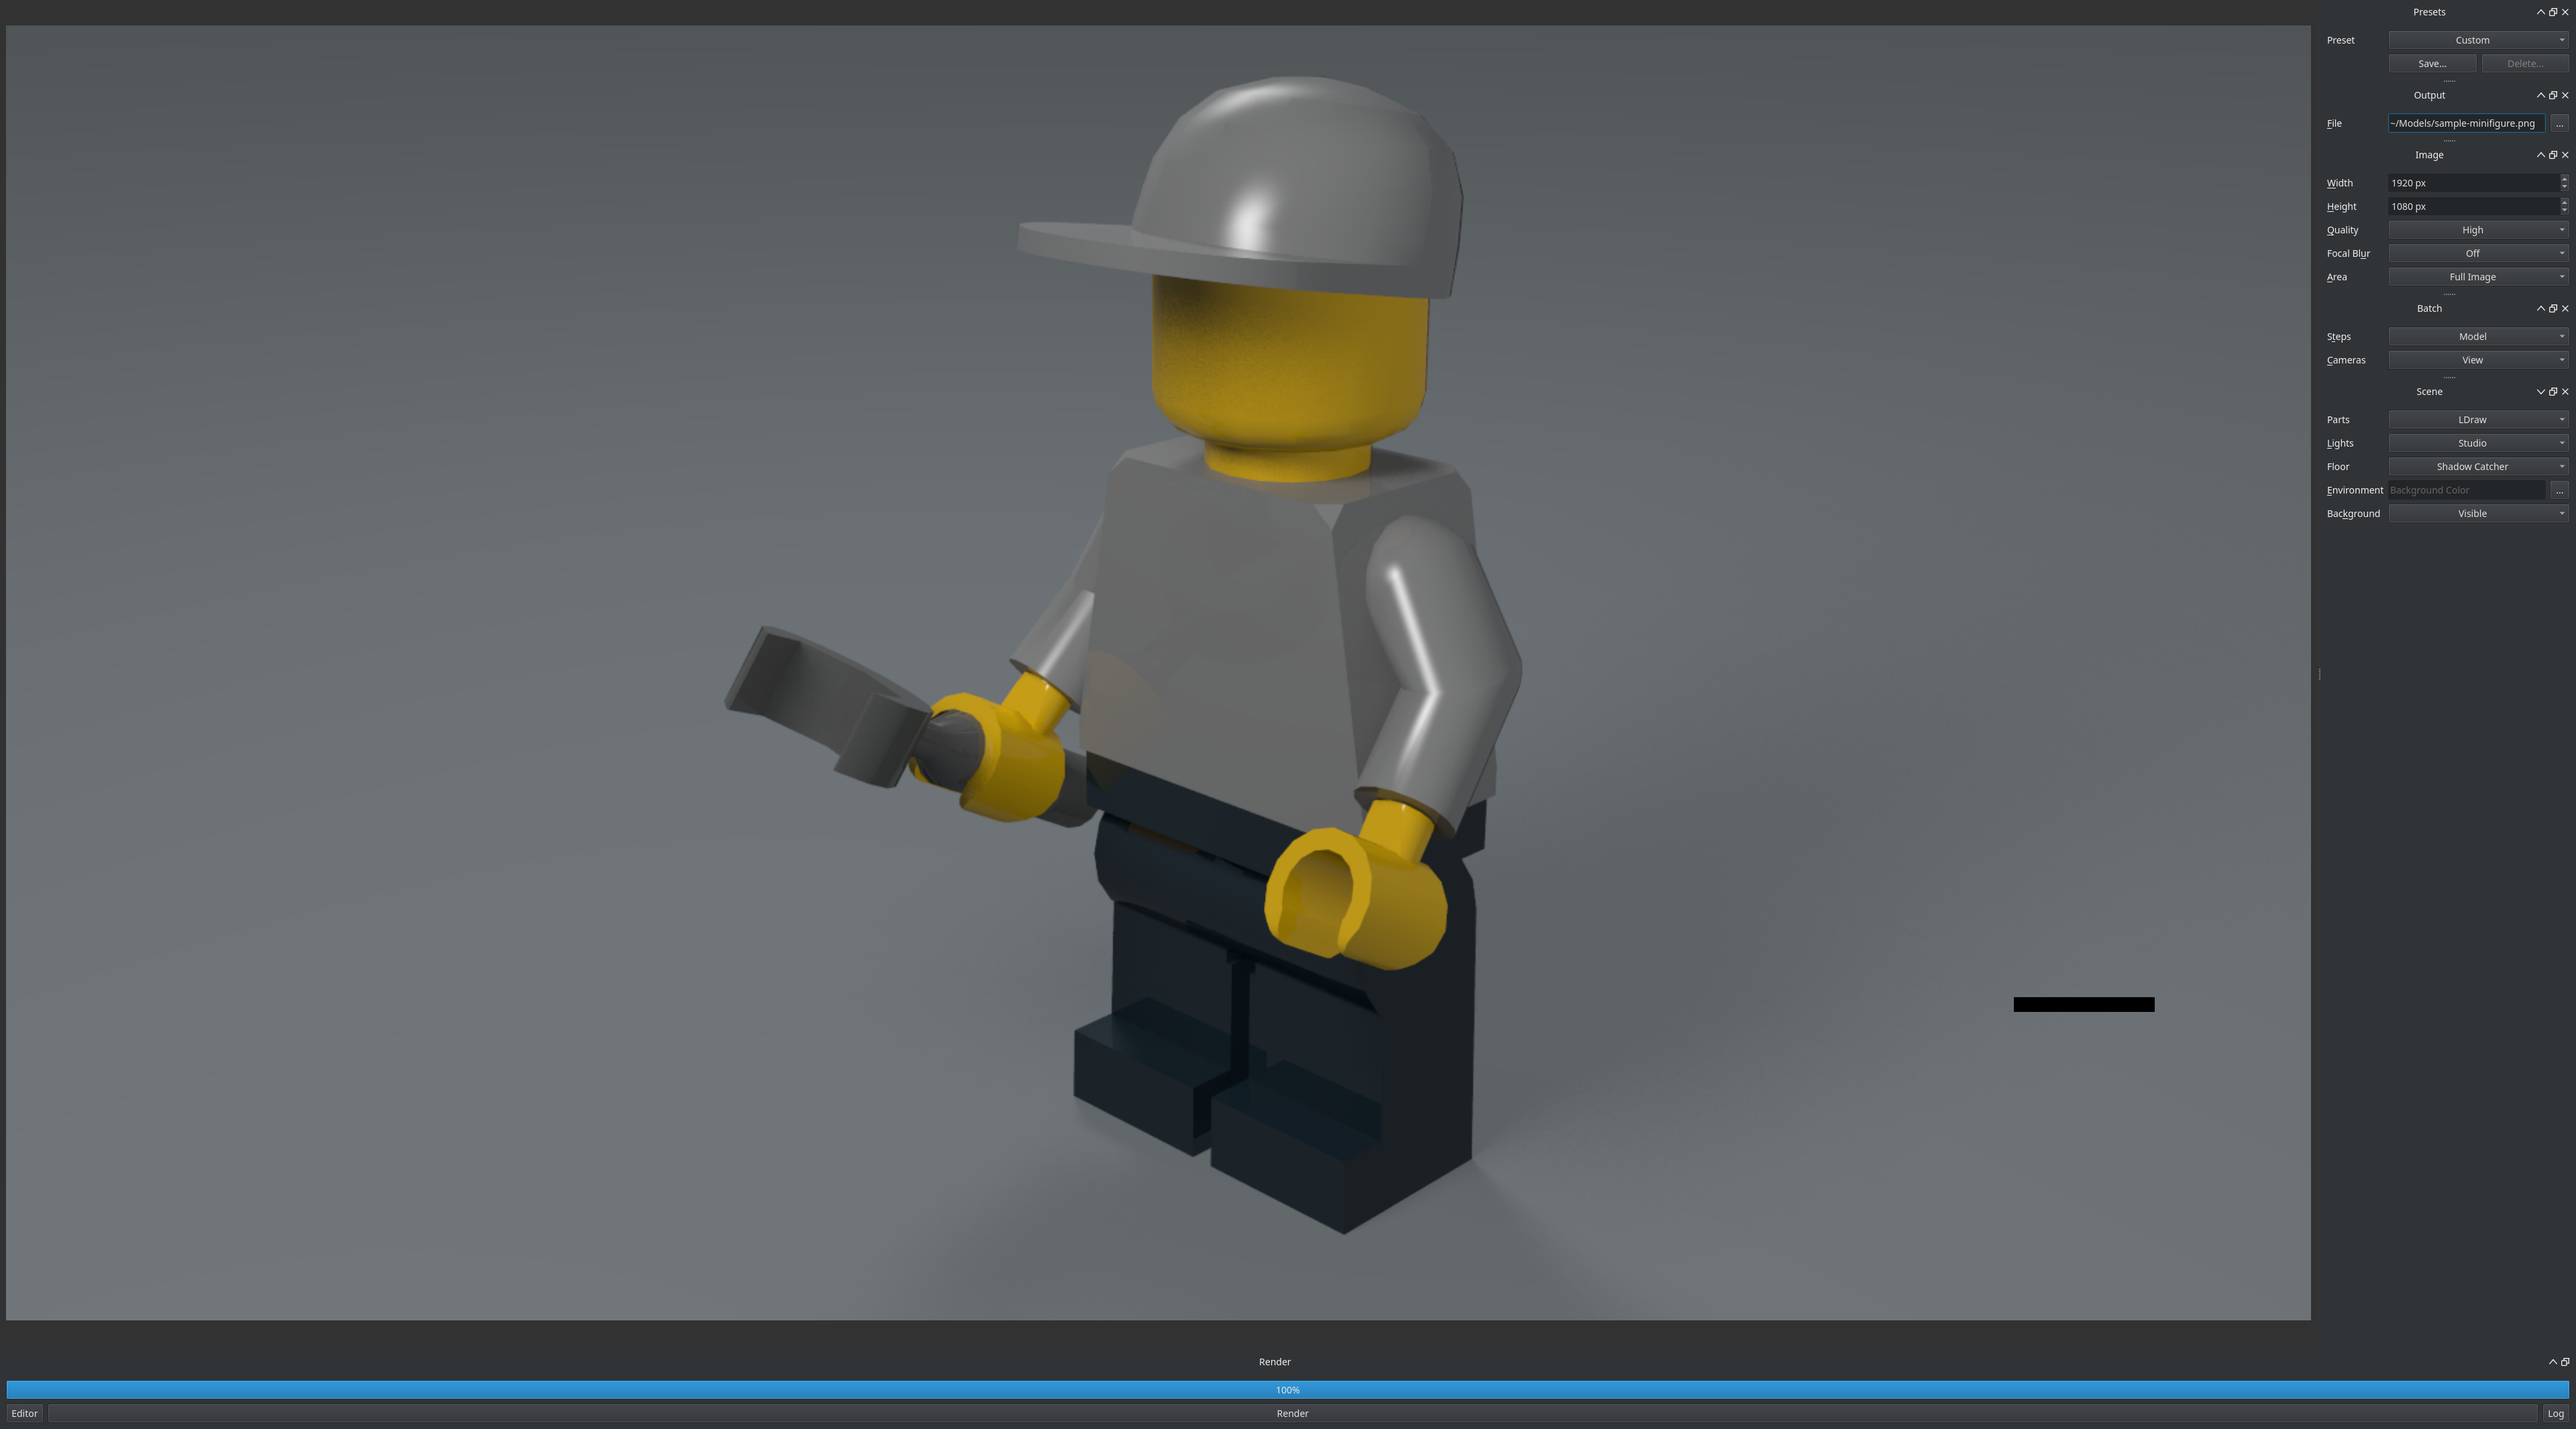
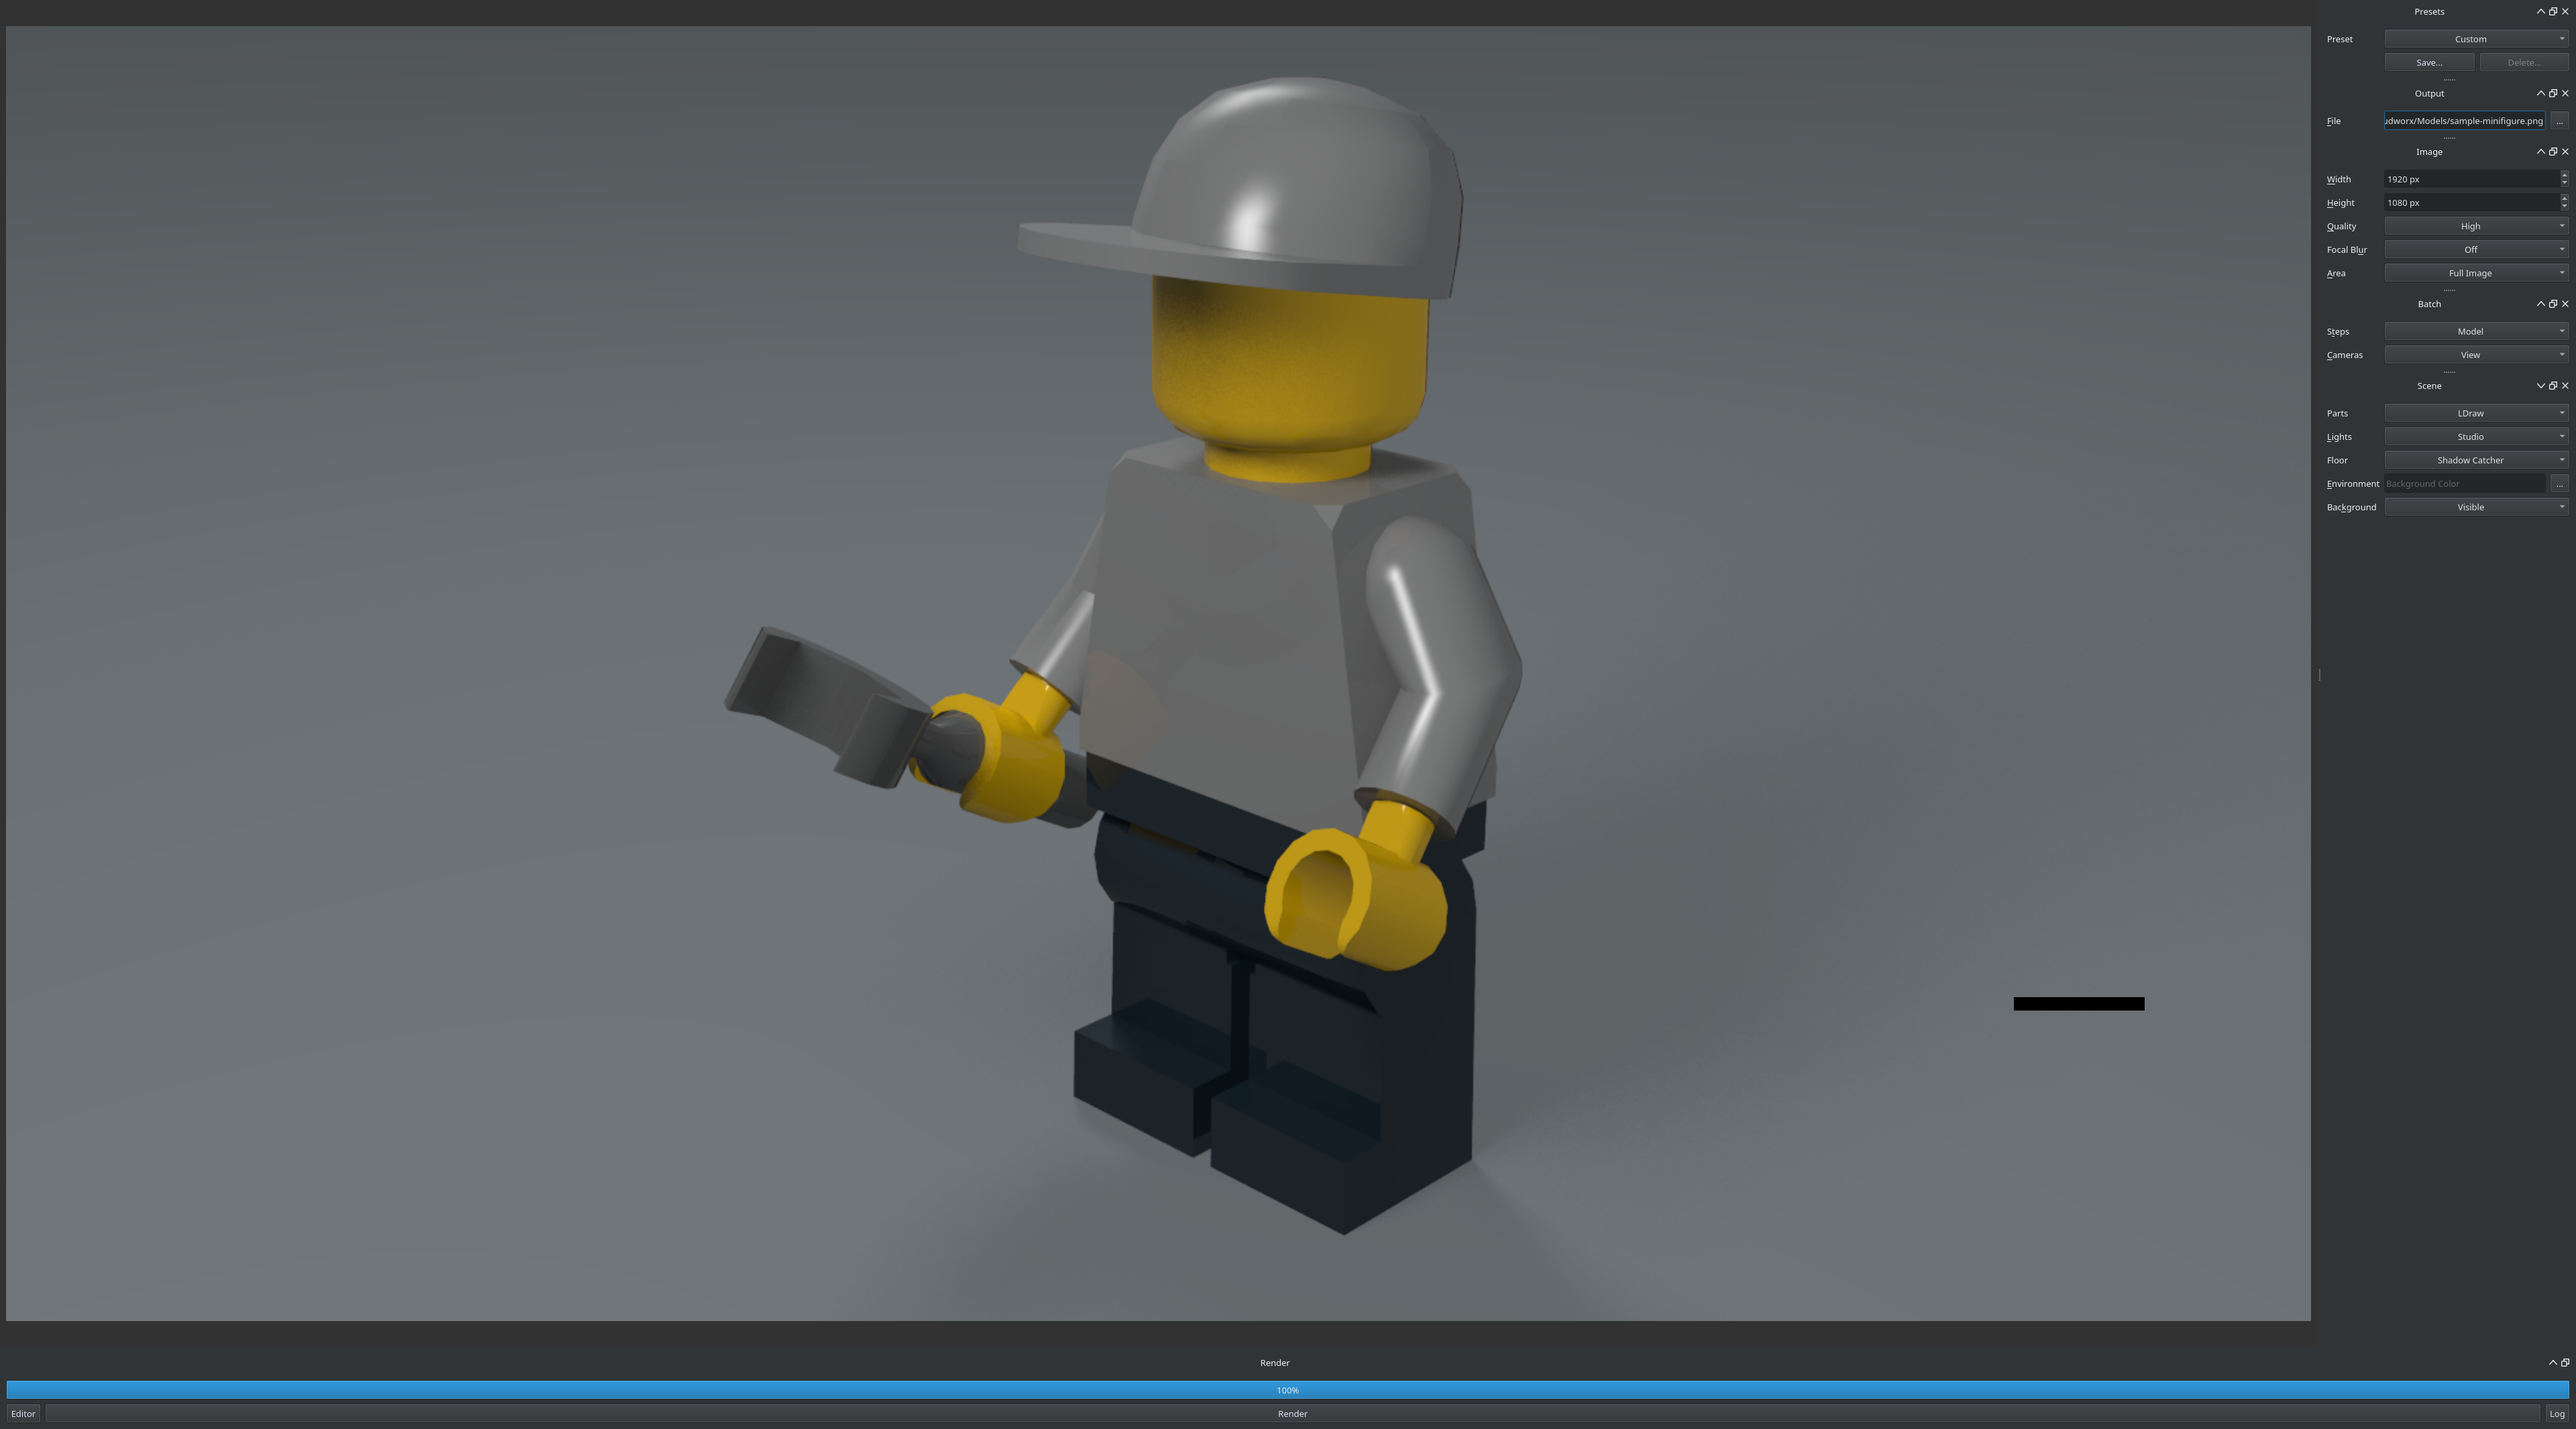
Code & Features Update

Changed region(s): [[0.9062, 0.1239, 1.0, 0.3717], [0.9375, 0.031, 1.0, 0.0929]]

diff --git a/index.html b/index.html
@@ -2040,6 +2040,7 @@ studworx/tools/studworx-install [prefix] [build directory]</code></pre>
 					<li>Instructions: Final Border, Final Border Color and Final Margin in <a href="#steps">Steps</a> per Page frame the final model area and keep it away from the steps and page margins, none by default</li>
 					<li>Translations: the new highlight and final model settings read right in all nine languages</li>
 					<li>Site: the Instructions, <a href="#rendering">Rendering</a>, <a href="#views">Views</a> and <a href="#interface">Interface</a> images are retaken to show the panel fold arrows and the new instructions settings, and the Instructions features name Step Flow, the final model, dividers, Model Size, Highlight Width, text <a href="#files">files</a> and Undo and Redo</li>
+					<li>Site: the POV-Ray and Blender Render images show the full output path the windows fill in</li>
 				</ul>
 			</details>
 

diff --git a/NOTICE.md b/NOTICE.md
@@ -8,6 +8,7 @@
   - Instructions: Final Border, Final Border Color and Final Margin in Steps per Page frame the final model area and keep it away from the steps and page margins, none by default
   - Translations: the new highlight and final model settings read right in all nine languages
   - Site: the Instructions, Rendering, Views and Interface images are retaken to show the panel fold arrows and the new instructions settings, and the Instructions features name Step Flow, the final model, dividers, Model Size, Highlight Width, text files and Undo and Redo
+  - Site: the POV-Ray and Blender Render images show the full output path the windows fill in
 
   </details>
 
